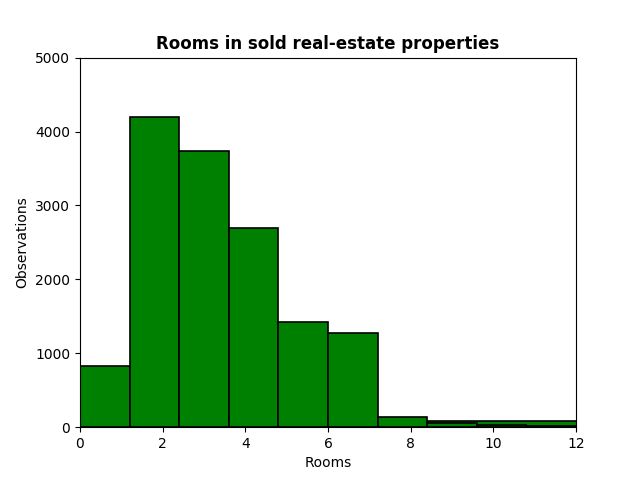
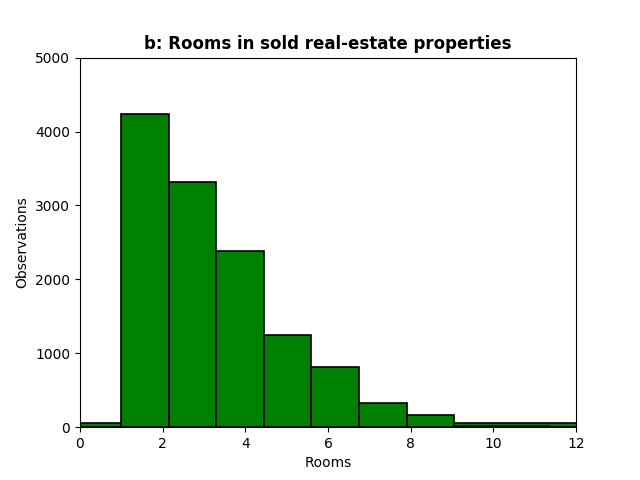
new figures

Changed region(s): [[0.125, 0.2188, 0.9062, 0.9062], [0.2188, 0.0625, 0.8125, 0.125]]

diff --git a/Analysis.py b/Analysis.py
@@ -25,6 +25,23 @@ df_mstation[['Longitude','Latitude']] = df_mstation[['Longitude','Latitude']].ab
 df_sstation = pd.read_csv(path_ssta, index_col=0)
 df_sstation[['Longitude', 'Latitude']] = df_sstation[['Longitude','Latitude']].abs()
 
+##########################
+# Descriptive statistics #
+################################################################################
+# sample identification
+#sample should be from befor 2008
+full_data = full_data.loc[full_data['Date_of_sale'] <= '2007-12-31']
+
+# deleting outliers
+full_data = full_data.loc[full_data['sqm_price']<80000]
+full_data = full_data.loc[full_data['Sell_price']<10000000]
+print('missingness on address: ',round((full_data.iloc[:, -1].isna().mean())*100,2), "%")
+print('missingness on address: ',full_data.iloc[:, -1].isna().sum())
+full_data = full_data[full_data['longitude']>12]
+
+full_data = full_data.sort_values('Date_of_sale')
+full_data = full_data.reset_index(drop=True)
+
 ################
 # Data quality #
 ################################################################################
@@ -58,7 +75,7 @@ print("descriptive statistics: \n", percent_df)
 
 # Histogram of the distrubution of square meters
 fig1 = plt.hist(full_data['m2'], color = 'green', edgecolor = 'black', bins=40, linewidth=1.2)
-fig1 = plt.title('Size of sold real-estate properties', weight='bold')
+fig1 = plt.title('a: Size of sold real-estate properties', weight='bold')
 fig1 = plt.xlabel('Square meters', color='black')
 fig1 = plt.ylabel('Observations', color='black')
 fig1 = plt.xlim(0,420)
@@ -67,7 +84,7 @@ plt.savefig('fig1.png')
 
 # Rooms in sold properties
 fig2 = plt.hist(full_data['Rooms'], color = 'green', edgecolor='black', bins=20, linewidth=1.2)
-fig2 = plt.title('Rooms in sold real-estate properties', weight='bold')
+fig2 = plt.title('b: Rooms in sold real-estate properties', weight='bold')
 fig2 = plt.xlabel('Rooms', color='black')
 fig2 = plt.ylabel('Observations', color='black')
 fig2 = plt.xlim(0,12)
@@ -95,29 +112,69 @@ log_df.columns = ['id', 'project', 'connector_type', 't', 'delta_t', 'url',
 print("head of log_file: \n", log_df.head())
 
 # Visualization of the time it took to make the call for data
-plt.figure(figsize = (12, 4))
+plt.figure(figsize = (13, 4))
 plt.plot(log_df['datetime'], log_df.delta_t, color='green')
 plt.ylabel('Delta t', color='black')
 plt.xlabel('Scraping process', color='black')
-plt.title('The time it took to make the call for data', weight='bold')
+plt.title('a: The time it took to make the call for data', weight='bold')
 plt.savefig('fig4.png')
 
 # Visualization of the response size through the scraping process
-plt.figure(figsize = (12, 4))
+plt.figure(figsize = (6.5, 4))
 plt.plot(log_df['datetime'], log_df['response_size'], color='green')
 plt.ylabel('bytes in the csv files', color='black')
 plt.xlabel('Scraping process', color='black')
-plt.title('The size of csv files through the scraping process', weight='bold')
+plt.title('b: The size of csv files through the scraping process', weight='bold')
 plt.savefig('fig5.png')
 
 # Plot the delta_t against the response_size - to see correlation.
-fig, ax = plt.subplots()
+fig, ax = plt.subplots(figsize = (5, 4))
 ax.scatter(log_df.delta_t.astype('float'), log_df.response_size, color = 'green')
 ax.fmt_xdata = mdates.DateFormatter('%s-%f')
+plt.ylabel('')
+plt.xlabel('Delta t', color='black')
+plt.title('c: assocation between Delta t and file size', weight='bold')
 plt.savefig('fig6.png')
 
 q_cols = log_df.loc[:, ['delta_t', 'response_size']]
 print(q_cols.corr(method='pearson'))
+
+#Preparing DataFrame with monthly change
+dta = full_data['Date_of_sale']
+dta1 = pd.to_datetime(dta)
+merged1 = pd.concat([dta1, full_data['sqm_price']], axis=1)
+merged1 = merged1.set_index('Date_of_sale')
+
+monthly_price = round(merged1['sqm_price'].resample('M').mean(),2)
+monthly_price = monthly_price.to_frame()
+
+monthly_price['Monthly change'] = round(monthly_price.pct_change(periods=1, axis=0),2)
+def percent_change(df):
+    monthly_price['Total change'] = round((100 * (monthly_price.sqm_price/monthly_price.iloc[0].sqm_price -1)),2)
+    return monthly_price
+
+monthly_price.groupby('Date_of_sale').apply(percent_change)
+monthly_price.index = pd.to_datetime(monthly_price.index)
+
+#Figure 9
+fig, ax = plt.subplots()
+ax.plot(monthly_price['Monthly change'], color='green')
+plt.title('a: Monthly change in sqare meter price', weight = 'bold')
+plt.xlabel('Year', color='black')
+plt.ylabel('Change, %', color='black')
+fig.autofmt_xdate()
+ax.fmt_xdata = mdates.DateFormatter('%Y-%m-%d')
+plt.savefig('fig9.png')
+
+# Figure 10
+fig, ax = plt.subplots()
+ax.plot(monthly_price['Total change'], color ='green')
+plt.title('b: Total change in square meter price since 1995', weight='bold')
+plt.xlabel('Year', color='black')
+plt.ylabel('Change, %', color='black')
+fig.autofmt_xdate()
+ax.fmt_xdata = mdates.DateFormatter('%Y-%m-%d')
+plt.savefig('fig10.png')
 
 ##########################
 # Descriptive statistics #
@@ -134,6 +191,7 @@ full_data = full_data[full_data['longitude']>12]
 
 full_data = full_data.sort_values('Date_of_sale')
 full_data = full_data.reset_index(drop=True)
+print(full_data.shape)
 
 #############################
 # Location based statistics #
@@ -239,6 +297,28 @@ Train_legend =   '''
 
 m.get_root().html.add_child(folium.Element(Train_legend))
 m.save('copenhagen_map.html')
+
+address = pd.DataFrame([a[0] + ' ' + a[-1][6:]\
+           for a in full_data['Address'].str.split(',')])
+header=['ad']
+address.columns=header
+
+municipalities = ['Frederiksberg C', 'Frederiksberg', 'København K', 'København V', 'København S', 'København N', 'København Ø']
+
+address_list = []
+
+for i in address['ad']:
+    for x in municipalities:
+        if x in i:
+            address_list.append(x)
+            break
+
+# Making a list of municipalities
+Municipality = pd.DataFrame(address_list)
+Municipality.columns=['Municipality']
+
+# Adding the list to the housing data
+full_data['Municipality'] = Municipality
 
 # using selenium to safe HTML as png
 from selenium import webdriver
@@ -348,21 +428,113 @@ browser.quit()
 path_analysis = dir +'/boliga/data/analysis_data.csv'
 full_data = pd.read_csv(path_analysis, index_col=0)
 
+# ensuring date time as column type
+full_data['Date_of_sale'] = full_data['Date_of_sale'].apply(lambda x: str(x))
+full_data['Date_of_sale'] = full_data['Date_of_sale'].apply(lambda x: parse(x))
+
 # make distance plot
-fig, (ax1, ax2) = plt.subplots(2, figsize=(10, 8), sharex = True, sharey=True)
-fig.suptitle('square meter price by distance', weight="bold")
-fig.text(0.04, 0.5, '%-difference in square meter price from rolling mean', va='center', rotation='vertical')
-
+fig, ax1 = plt.subplots( figsize=(13, 4))
 sns.regplot(x='m_distance', y='z_sqm_price', data= full_data, scatter=False, lowess= True, color='green', ax =ax1)
-ax1.set_xlabel("")
-ax1.set_ylabel("")
+ax1.set_xlabel("distance from nearest metro station")
+ax1.set_ylabel('%-difference in square meter price from rolling mean')
 ax1.set_xlim(0,5)
-
-sns.regplot(x='c_distance', y='z_sqm_price', data=full_data, scatter=False, lowess= True, color='green',line_kws={'alpha':0.5}, ax=ax2)
-ax2.set_xlabel('distance in kilometers')
-ax2.set_ylabel('')
-ax2.set_xlim(0,5)
-ax2.set_ylim(-11,11)
-
-plt.tight_layout(pad=3, w_pad=2.5, h_pad=2)
 plt.savefig('fig7.png')
+
+# make year of opening plot_point
+# defining which stations opened when
+m2002 = ['Sundby', 'Ørestad', 'Nørreport', 'Lergravsparken', 'Kongens Nytorv', 'Islands Brygge', 'DR Byen', 'Bella Center', 'Amagerbro']
+m2003 = ['Fasanvej', 'Forum', 'Frederiksberg', 'Lindevang']
+m2004 = ['Flintholm']
+m2007 = ['Amager Strand', 'Øresund','Femøren', 'Kastrup']
+
+open2002 = full_data.loc[full_data['m_station'].isin(m2002)]
+open2003 = full_data.loc[full_data['m_station'].isin(m2003)]
+open2004 = full_data.loc[full_data['m_station'].isin(m2004)]
+open2007 = full_data.loc[full_data['m_station'].isin(m2007)]
+
+open2002_c = full_data.loc[full_data['m_station_const'].isin(m2002)]
+open2003_c = full_data.loc[full_data['m_station_const'].isin(m2003)]
+open2004_c = full_data.loc[full_data['m_station_const'].isin(m2004)]
+open2007_c = full_data.loc[full_data['m_station_const'].isin(m2007)]
+
+distance_to_metro2002 = open2002['m_distance']
+distance_to_metro2003 = open2003['m_distance']
+distance_to_metro2004 = open2004['m_distance']
+distance_to_metro2007 = open2007['m_distance']
+
+open2002.insert(0, 'distance_to_metro', distance_to_metro2002)
+open2003.insert(0, 'distance_to_metro', distance_to_metro2003)
+open2004.insert(0, 'distance_to_metro', distance_to_metro2004)
+open2007.insert(0, 'distance_to_metro', distance_to_metro2007)
+
+distance_to_metro2002 = open2002_c['m_distance_const']
+distance_to_metro2003 = open2003_c['m_distance_const']
+distance_to_metro2004 = open2004_c['m_distance_const']
+distance_to_metro2007 = open2007_c['m_distance_const']
+
+open2002_c.insert(0, 'distance_to_metro', distance_to_metro2002)
+open2003_c.insert(0, 'distance_to_metro', distance_to_metro2003)
+open2004_c.insert(0, 'distance_to_metro', distance_to_metro2004)
+open2007_c.insert(0, 'distance_to_metro', distance_to_metro2007)
+
+open2002 = open2002.append(open2002_c, ignore_index=True)
+open2003 = open2003.append(open2003_c, ignore_index=True)
+open2004 = open2004.append(open2004_c, ignore_index=True)
+open2007 = open2007.append(open2007_c, ignore_index=True)
+
+def group_dist(dist):
+    if dist < 0.5:
+        x = 'Less than 0.5 km'
+    elif dist >= 0.5 and dist <= 1:
+        x = '0.5 -1 km'
+    else:
+        x = 'Above 1 km'
+    return x
+
+dist_group2002 = open2002['distance_to_metro'].apply(lambda x: group_dist(x))
+dist_group2003 = open2003['distance_to_metro'].apply(lambda x: group_dist(x))
+dist_group2004 = open2004['distance_to_metro'].apply(lambda x: group_dist(x))
+dist_group2007 = open2007['distance_to_metro'].apply(lambda x: group_dist(x))
+open2002.insert(1, 'Grouped_distance', dist_group2002)
+open2003.insert(1, 'Grouped_distance', dist_group2003)
+open2004.insert(1, 'Grouped_distance', dist_group2004)
+open2007.insert(1, 'Grouped_distance', dist_group2007)
+
+open2002['Date_of_sale'] = open2002['Date_of_sale'].apply(lambda x: x.year)
+open2003['Date_of_sale'] = open2003['Date_of_sale'].apply(lambda x: x.year)
+open2004['Date_of_sale'] = open2004['Date_of_sale'].apply(lambda x: x.year)
+open2007['Date_of_sale'] = open2007['Date_of_sale'].apply(lambda x: x.year)
+
+fig, (ax1, ax2, ax3, ax4) = plt.subplots(4, figsize=(13, 20))
+# fig.suptitle('%-difference in square meter price time from opening date', weight="bold")
+plt.tight_layout(pad=3, w_pad=2.5, h_pad=2)
+
+sns.lineplot(data=open2002, x='Date_of_sale', y='z_sqm_price', hue='Grouped_distance', palette='Greens', ax=ax1)
+ax1.axvline(2002, color='k', linestyle=':')
+ax1.set_xlabel("Year which property was sold")
+ax1.set_ylabel("%-difference in square meter price from rolling mean")
+sns.lineplot(data=open2003, x='Date_of_sale', y='z_sqm_price', hue='Grouped_distance', palette='Greens', ax=ax2)
+ax2.axvline(2004, color='k', linestyle=':')
+ax2.set_xlabel("Year which property was sold")
+ax2.set_ylabel("%-difference in square meter price from rolling mean")
+sns.lineplot(data=open2004, x='Date_of_sale', y='z_sqm_price', hue='Grouped_distance', palette='Greens', ax=ax3)
+ax3.axvline(2003, color='k', linestyle=':')
+ax3.set_xlabel("Year which property was sold")
+ax3.set_ylabel("%-difference in square meter price from rolling mean")
+sns.lineplot(data=open2007, x='Date_of_sale', y='z_sqm_price', hue='Grouped_distance', palette='Greens', ax=ax4)
+ax4.axvline(2007, color='k', linestyle=':')
+ax4.set_xlim(1998,2008)
+ax4.set_xlabel("Year which property was sold")
+ax4.set_ylabel("%-difference in square meter price from rolling mean")
+ax4.legend(loc=1)
+plt.savefig('fig11.png')
+
+fig, ax = plt.subplots(figsize = (13, 4))
+sns.lineplot(data=open2002, x='Date_of_sale', y='z_sqm_price', hue='Grouped_distance', palette='Greens', ax=ax)
+# plt.title('%-difference in square meter price time from opening date', weight="bold")
+ax.axvline(2002, color='k', linestyle=':')
+ax.legend(loc=4)
+ax.set_xlabel("Year which property was sold")
+ax.set_ylabel("%-difference in square meter price from rolling mean")
+plt.ylim(-30,20)
+plt.savefig('fig11_2002.png')
